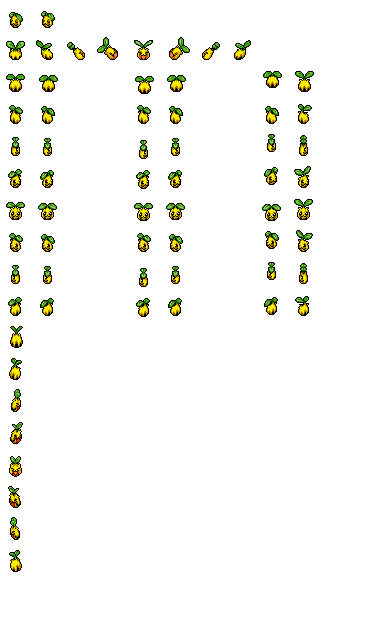
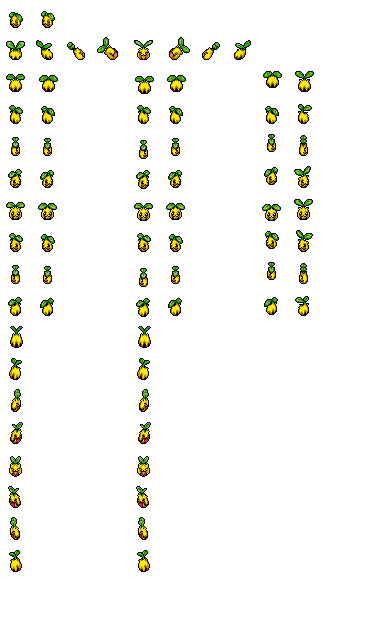
Automatic Pokemon spritesets

Changed region(s): [[0.3438, 0.5, 0.4062, 0.9062]]

diff --git a/PMDMMOc/src/com/darkxell/client/mechanics/freezones/zones/PokemonSquareFreezone.java b/PMDMMOc/src/com/darkxell/client/mechanics/freezones/zones/PokemonSquareFreezone.java
@@ -3,13 +3,13 @@ package com.darkxell.client.mechanics.freezones.zones;
 import com.darkxell.client.mechanics.freezones.FreezoneMap;
 import com.darkxell.client.mechanics.freezones.entities.PokemonFreezoneEntity;
 import com.darkxell.client.resources.images.PokemonSprite;
-import com.darkxell.client.resources.images.pokemons.PokemonSpriteset1;
+import com.darkxell.client.resources.images.PokemonSpritesets;
 
 public class PokemonSquareFreezone extends FreezoneMap {
 
 	public PokemonSquareFreezone() {
 		super("resources\\freezones\\square.xml");
-		this.entities.add(new PokemonFreezoneEntity(71, 34, new PokemonSprite(PokemonSpriteset1.instance)));
+		this.entities.add(new PokemonFreezoneEntity(71, 34, new PokemonSprite(PokemonSpritesets.getSpriteset(1))));
 	}
 
 }

diff --git a/PMDMMOc/src/com/darkxell/client/mechanics/freezones/FreezoneMap.java b/PMDMMOc/src/com/darkxell/client/mechanics/freezones/FreezoneMap.java
@@ -8,7 +8,7 @@ import org.jdom2.input.SAXBuilder;
 
 import com.darkxell.client.resources.images.AbstractTileset;
 import com.darkxell.client.resources.images.PokemonSprite;
-import com.darkxell.client.resources.images.pokemons.PokemonSpriteset1;
+import com.darkxell.client.resources.images.PokemonSpritesets;
 
 /**
  * A tiled map of a freezone. Freezones are the areas where you can move freely
@@ -58,7 +58,7 @@ public class FreezoneMap {
 			e.printStackTrace();
 		}
 		// TODO: change this
-		this.player = new FreezonePlayer(this, new PokemonSprite(PokemonSpriteset1.instance), 50, 50);
+		this.player = new FreezonePlayer(this, new PokemonSprite(PokemonSpritesets.getSpriteset(1)), 50, 50);
 	}
 
 	public void update() {

diff --git a/PMDMMOc/src/com/darkxell/client/launchable/Launcher.java b/PMDMMOc/src/com/darkxell/client/launchable/Launcher.java
@@ -1,5 +1,6 @@
 package com.darkxell.client.launchable;
 
+import com.darkxell.client.resources.images.PokemonSpritesets;
 import com.darkxell.client.state.FreezoneExploreState;
 import com.darkxell.client.state.StateManager;
 import com.darkxell.client.state.dungeon.DungeonState;
@@ -35,6 +36,7 @@ public class Launcher
 		MoveRegistry.loadClient();
 		ItemRegistry.loadClient();
 		DungeonRegistry.loadClient();
+		PokemonSpritesets.loadData();
 		System.out.println("Lang & Data loaded.");
 
 		frame = new Frame();

diff --git a/PMDMMOc/src/com/darkxell/client/resources/images/AbstractPokemonSpriteset.java b/PMDMMOc/src/com/darkxell/client/resources/images/AbstractPokemonSpriteset.java
@@ -4,7 +4,7 @@ import java.awt.image.BufferedImage;
 
 import com.darkxell.client.resources.Res;
 
-public abstract class AbstractPokemonSpriteset {
+public class AbstractPokemonSpriteset {
 
 	private BufferedImage sprites;
 	public final int spriteWidth;
